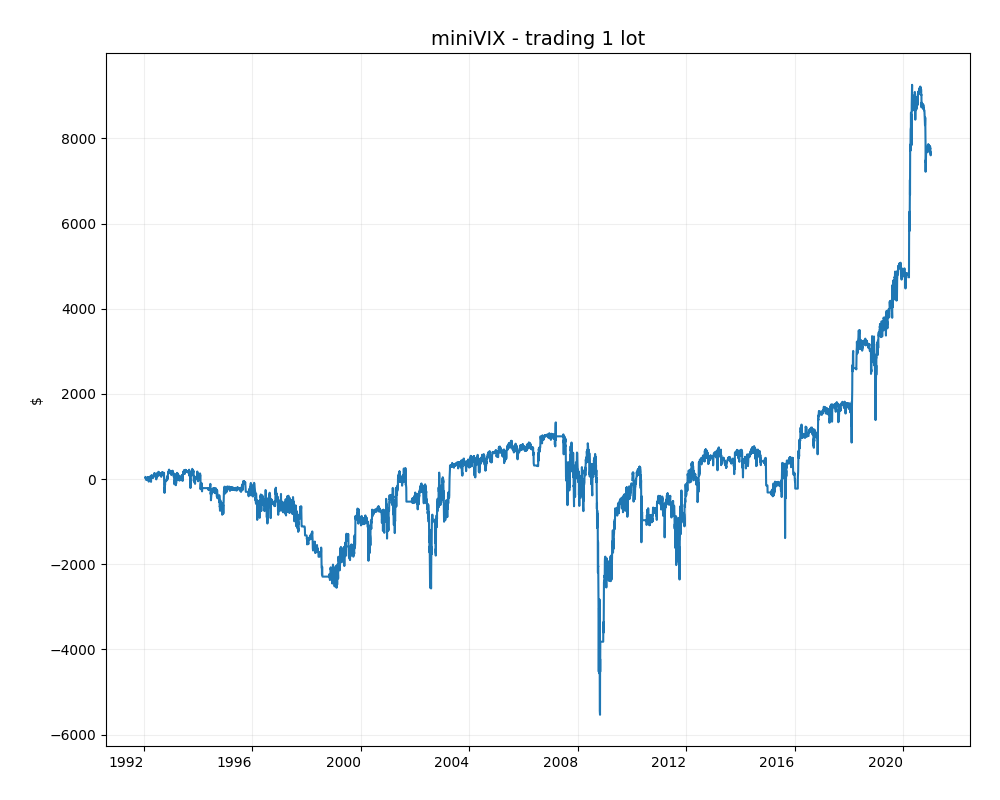
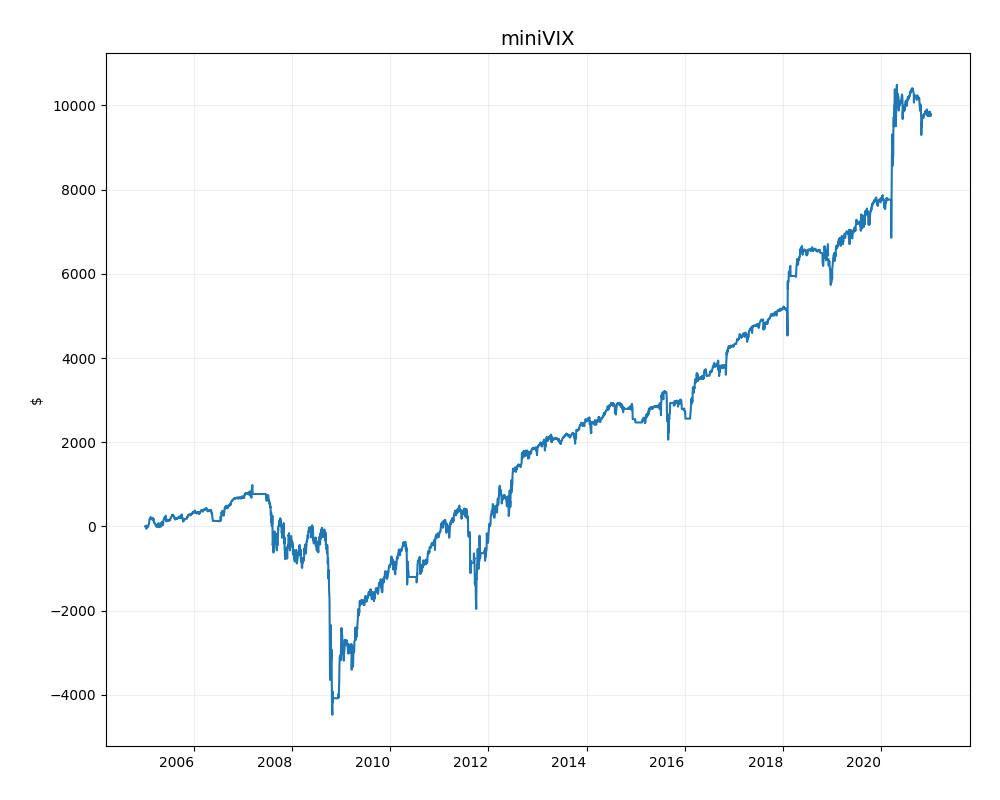
update

diff --git a/signal_check.py b/signal_check.py
@@ -1,5 +1,6 @@
 from _setting import *
 #from _setting_prince import *
+from datetime import timedelta
 
 tloc = '%s/Prince' % gloc
 
@@ -27,6 +28,33 @@ where i.index_name = 'SKEW'
 order by date
 """
 skew = pd.read_sql(qry, engine_dev, parse_dates=['date'], index_col=['date'])
+
+def rt_s(r,t):
+    c=np.empty
+    if r >= 0 and t == 1:
+        c = -0.4 # 0.1
+    #elif r ==-1 and t ==1:
+     #   c = -1
+    #elif r ==-1 and t ==0:
+     #   c = -0.4
+        
+    else:
+        c= r
+    return c 
+
+def vix_s(v,s):
+    c=np.empty
+    if v > 0.5 and s >0.5:
+        c = 0 # 0.1
+    elif v >0.5 and s <=0.5:
+        c= -1  #9.5 
+    elif v<=0.5 and s > 0.5:
+        c = -0.7
+    elif v <=0.5 and s <= 0.5:
+        c = -0.3
+    else:
+        c=0
+    return c 
 
 vf = load_fut_data_db('VIX', conn_dev).close
 
@@ -56,49 +84,69 @@ ot.columns = ['vix_signal', 'intra_barrier', 'exposure']
 print(ot)
 
 
-def rt_s(r,t):
-    c=np.empty
-    if r >= 0 and t == 1:
-        c = -0.4 # 0.1
-    #elif r ==-1 and t ==1:
-     #   c = -1
-    #elif r ==-1 and t ==0:
-     #   c = -0.4
-        
-    else:
-        c= r
-    return c 
-
-def vix_s(v,s):
-    c=np.empty
-    if v > 0.5 and s >0.5:
-        c = 0 # 0.1
-    elif v >0.5 and s <=0.5:
-        c= -1  #9.5 
-    elif v<=0.5 and s > 0.5:
-        c = -0.7
-    elif v <=0.5 and s <= 0.5:
-        c = -0.3
-    else:
-        c=0
-    return c 
-
-# how to determine the number of lots to hold given capital
-## drawdown analysis
-## calcualte dollar pnl for miniVIX
-
-# miniVIX
+#------------------
+# verify VIX signal
+#------------------
+## miniVIX
 ## multiplier = $100 (c.f. VIX = $1,000)
 ## tickvalue = 0.05 * $100 = $5 (c.f. VIX = $50)
 
-## verify VIX signal
+# load futures price
+qry = """
+SELECT date, expiry, open, high, low, close, volume, open_int FROM marketdata.futures_raw_data p
+left join marketdata.market_info i on i.index = p.market_index
+where market_index = 160
+order by date, expiry
+"""
+dt = pd.read_sql(qry, engine_dev, parse_dates=['date'], index_col=['date', 'expiry'])
+dt = dt[~dt.close.isnull()] # delete if close is nan
 
-tmp = pd.concat([vf.close.diff(), rt_signal.shift()], axis=1)
+# load futures spec
+qry = """
+SELECT expiry,ticker,first_trade_date,last_trade_date,first_notice_date,first_delivery_date,contract_size,point_value,tick_size,margin_init,margin_sec FROM marketdata.futures_raw_spec
+where market_index = '160'
+"""
+spec = pd.read_sql(qry, engine_dev, parse_dates=['date'], index_col=['expiry'])
 
-pnl = tmp.iloc[:,0] * tmp.iloc[:,1] * 100
+# add roll_date that is 7 days prior to last_trade_date
+spec['roll_date'] = spec.last_trade_date - timedelta(days=7)
+## dt.loc[(spec.loc['2020M'].roll_date, ['2020M', '2020N']), 'close'] # to check roll_cost
+
+# get expiry code for each day/contract
+expiry = pd.DataFrame(index=dt.droplevel(1, axis=0).index.unique(), columns=['c%s'%i for i in np.arange(1,10)])
+for d in spec.roll_date.values:
+    if d >= today-timedelta(days=2):
+        continue
+    else:
+        for i in np.arange(1,10):
+            if (spec.roll_date.shift(i)==d).sum() == 1:
+                expiry.loc[d]['c%s'%i] = spec[spec.roll_date.shift(i)==d].index[0]
+expiry = expiry.ffill()['2005':]
+
+# get price for each day/contract
+price = pd.DataFrame(index=expiry.index, columns=expiry.columns)
+for d in price.index:
+    tmp = dt.loc[(d, expiry.loc[d].values), 'close']
+    price.loc[d, expiry.loc[d][expiry.loc[d].isin(tmp.droplevel(0, axis=0).index)].index.values] = tmp.values
+
+# price on roll dates
+price_on_roll = price.loc[price.index.intersection(spec.roll_date.values)]
+price_on_roll.index = pd.to_datetime(price_on_roll.index, format='%Y-%m-%d')
+
+# roll cost
+roll_cost = price_on_roll.diff(axis=1).iloc[:,1:] * -1
+roll_cost.columns = ['c%s'%i for i in np.arange(1, 9)]
+
+pnl = pd.concat([price.diff().c1, roll_cost.c1], axis=1).sum(axis=1)
+
+
+#tmp = pd.concat([vf.close.diff(), rt_signal.shift()], axis=1)
+tmp = pd.concat([pnl, rt_signal.shift()], axis=1)
+
+vix_pnl = tmp.iloc[:,0] * tmp.iloc[:,1] * 100
 
 fig, axe = plt.subplots(nrows=1, ncols=1, figsize=(10,8))
-pnl.cumsum().plot(ax=axe, title='miniVIX - trading 1 lot')
+vix_pnl.cumsum().plot(ax=axe, title='miniVIX')
 axe.title.set_size(14)
 axe.set_xlabel('', fontsize=10)
 axe.set_ylabel('$', fontsize=10)
@@ -108,3 +156,28 @@ axe.grid(alpha=0.2)
 axe.autoscale(tight=False)
 plt.tight_layout()
 plt.savefig('%s/pnl_vix_signal.png' % (tloc))
+
+#--------------------
+# verify Intra signal
+#--------------------
+## micro E-mini
+## multiplier $5 (c.f E-mini $50)
+## tick value = 0.25*$5 = $.125
+
+#sf = get_data_ready('SP500', 0, fxrate, conn_dev)
+#tmp = pd.concat([spx.close, sf.close], axis=1)
+
+spx['barrier'] = (spx['high'] - spx['low']) / spx['close']
+spx['bsmth'] = spx['barrier'].rolling(5).mean() * 0.5
+spx['dlvl'] = (spx['close'] - spx['close'] * spx['bsmth']).shift(1)
+spx['down'] = np.where(spx['dlvl'] >= spx['low'],1,0)
+spx['pnl_down'] = -5 * np.where(spx['open'] < spx['dlvl'], spx['down'] * (spx['close'] - spx['open']), spx['down'] * (spx['close'] - spx['dlvl']))
+
+
+
+
+
+# how to determine the number of lots to hold given capital
+## drawdown analysis
+## calcualte dollar pnl for miniVIX
+
